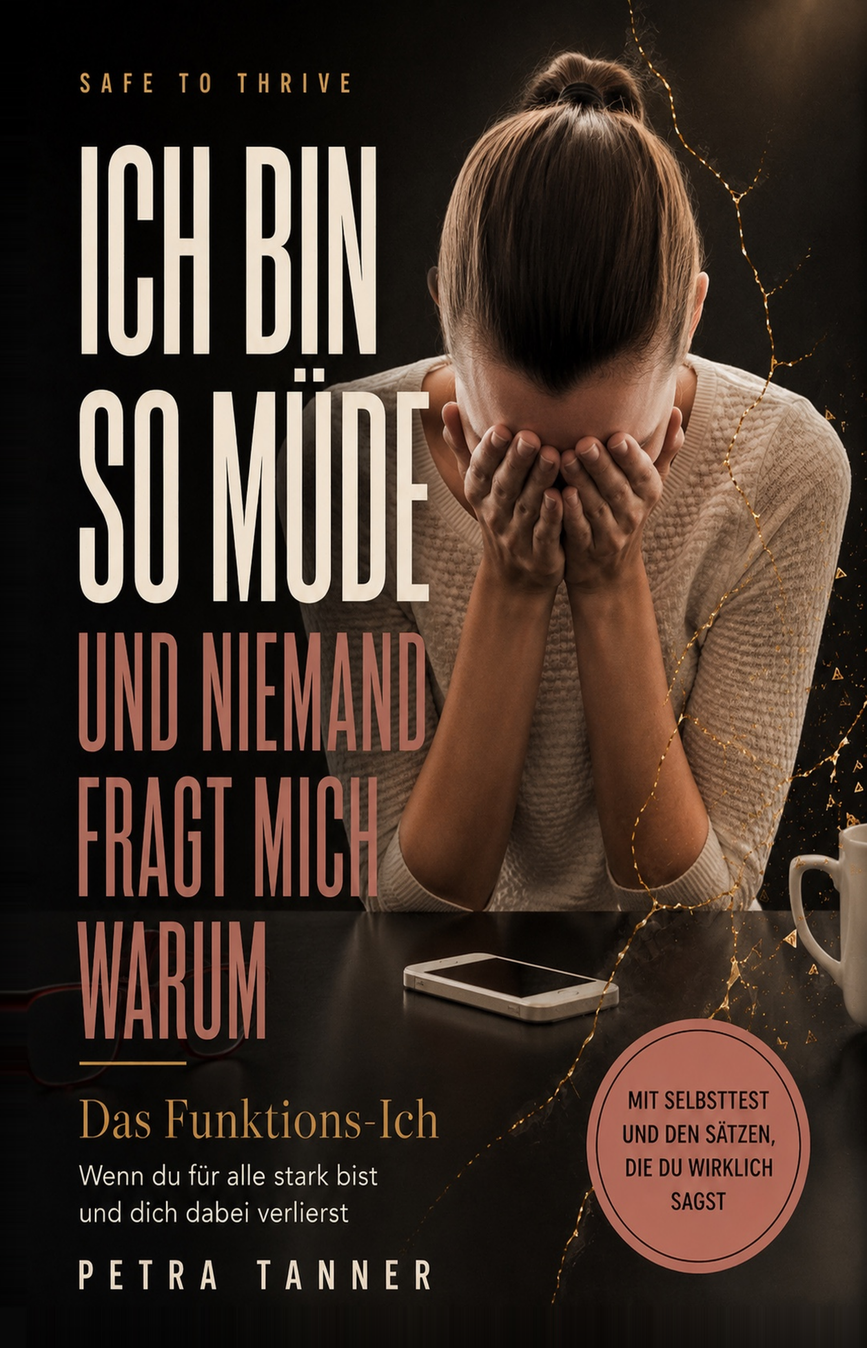
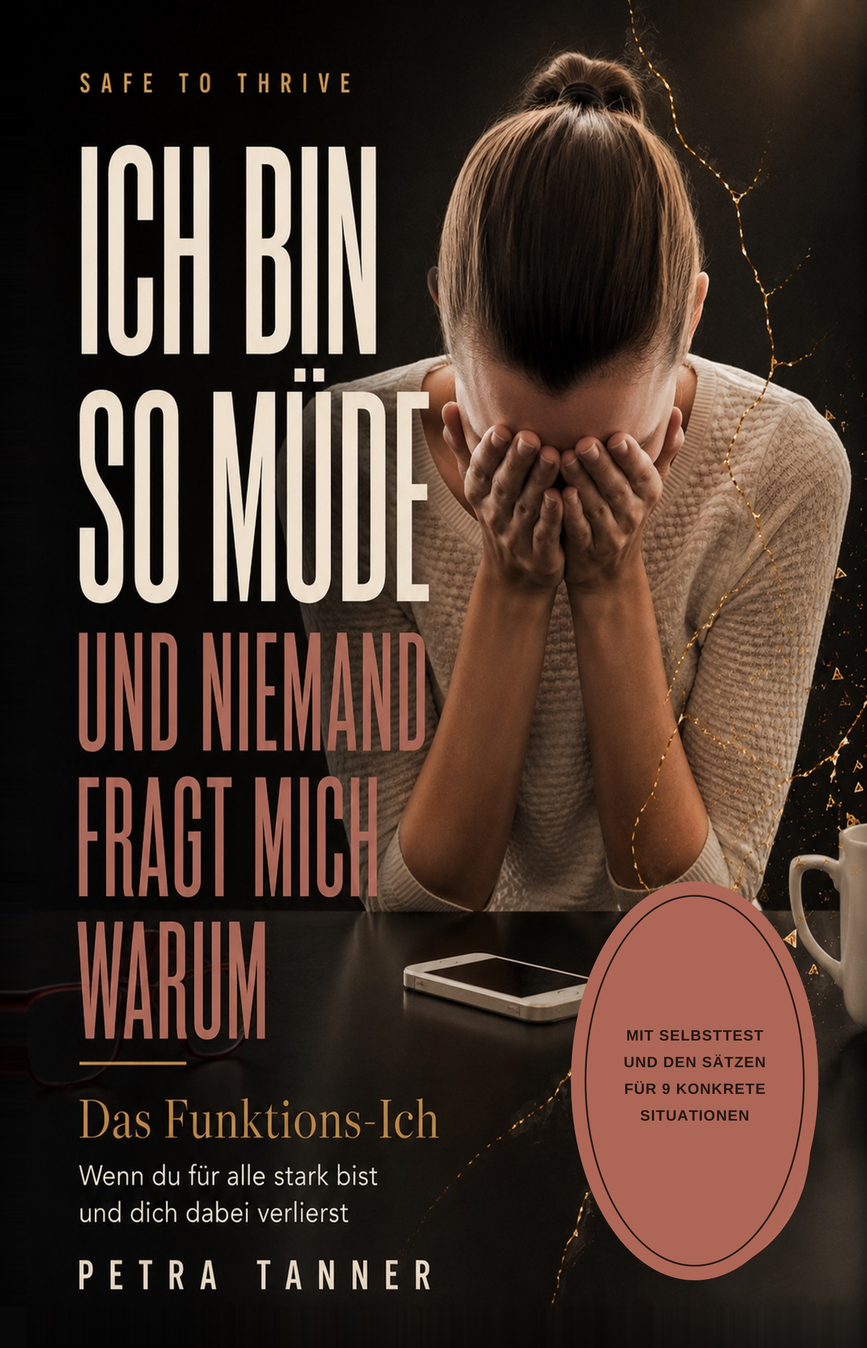
Stoerer inhaltlich korrigiert
Auf dem Cover stand: MIT SELBSTTEST UND DEN SAETZEN, DIE DU WIRKLICH SAGST.
Das heisst die Saetze, die die Leserin ohnehin sagt, also das Gegenteil des
Versprechens. Neu: MIT SELBSTTEST UND DEN SAETZEN FUER 9 KONKRETE SITUATIONEN.
Neun ist nachgezaehlt aus dem Kapitel Die Saetze.

Die Ellipse aus Petras Entwurf wird passgenau ueberdeckt statt herausgerechnet,
dadurch bleibt kein Schimmer zurueck. Neuer Modus stoerer-neu.

Claude-Session: https://claude.ai/code/session_011oFtWvyjvkDdc6K2GcSXHx

Changed region(s): [[0.6465, 0.6558, 0.9544, 0.9056], [0.7081, 0.9056, 0.8313, 0.968], [0.862, 0.9056, 0.8928, 0.9368]]

diff --git a/tools/buch6-cover.py b/tools/buch6-cover.py
@@ -19,6 +19,7 @@ MITTEXT = MODUS.startswith('mit-text')
 HELL    = MODUS in ('mit-text-hell', 'mit-text-hell-fuss')
 FUSS_HELL = MODUS == 'mit-text-hell-fuss'   # Signatur in Creme auf dunklem Fuss
 NUR_STOERER = MODUS == 'nur-stoerer'        # Bild bringt den Text mit, nur der Störer fehlt
+STOERER_NEU = MODUS == 'stoerer-neu'        # Störer im Bild wird passgenau überdeckt
 
 # ─── Masse ──────────────────────────────────────────────────────────────────
 SEITEN   = 126
@@ -233,6 +234,23 @@ if (not BILD) or MITTEXT or NUR_STOERER:
     c.circle(bx, by, br - 2.2 * mm, fill=0, stroke=1)
     for i, t in enumerate(['MIT SELBSTTEST', 'UND DEN SÄTZEN,', 'DIE DU WIRKLICH', 'SAGST']):
         gesperrt(bx, by + 5.4 * mm - i * 3.9 * mm, t, 'SansB', 6.4, NACHT, 0.4, mitte=True)
+
+if STOERER_NEU:
+    # Deckt die Ellipse aus Petras Entwurf passgenau ab und setzt den Text neu.
+    # Masse gemessen an cover-front-final.png
+    ex = FRONT_X + 114.55 * mm
+    ey = 44.04 * mm
+    ea, eb = 20.40 * mm, 32.90 * mm          # Halbachsen, minimal grösser als das Original
+    ROSE_ORIG = colors.Color(174 / 255, 104 / 255, 87 / 255)
+    c.setFillColor(ROSE_ORIG)
+    c.ellipse(ex - ea, ey - eb, ex + ea, ey + eb, fill=1, stroke=0)
+    c.setStrokeColor(colors.HexColor('#241713')); c.setLineWidth(0.8)
+    c.ellipse(ex - ea + 2.4 * mm, ey - eb + 2.4 * mm,
+              ex + ea - 2.4 * mm, ey + eb - 2.4 * mm, fill=0, stroke=1)
+    ZEILEN = ['MIT SELBSTTEST', 'UND DEN SÄTZEN', 'FÜR 9 KONKRETE', 'SITUATIONEN']
+    for i, t in enumerate(ZEILEN):
+        gesperrt(ex, ey + 6.6 * mm - i * 4.4 * mm, t, 'SansB', 7.0,
+                 colors.HexColor('#241713'), 0.35, mitte=True)
 
 
 # ════════════════════════════════════════════════════════════════════════════
